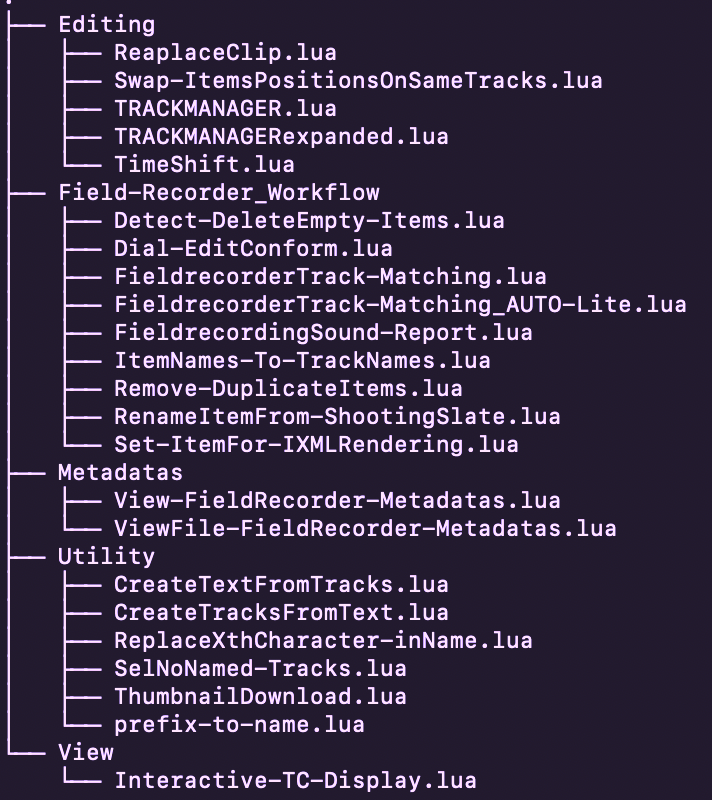
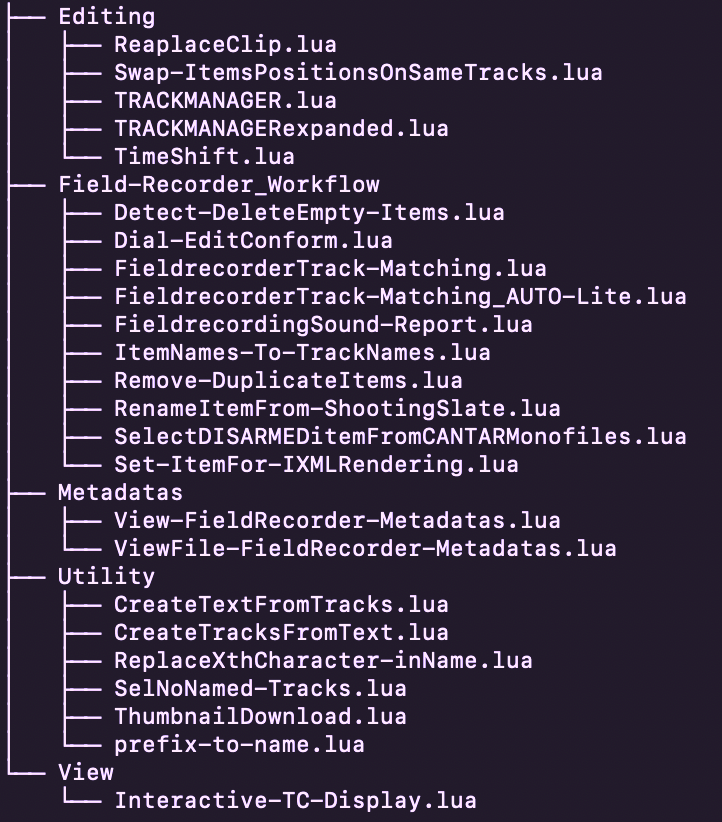
CANTAR DISARMED

Changed region(s): [[0.0, 0.0, 0.9579, 1.0]]

diff --git a/README.md b/README.md
@@ -243,6 +243,15 @@ Then Reaper can Re-render each Items and re-inject missing Metadata in tags **iX
   <img src="PICTURES/Set-ItemFor-IXMLRendering.png" alt="Overview of 'Set-ItemFor-IXMLRendering'" width="800" />
 </p> 
 
+## 5. **SelectDISARMEDitemFromCANTARMonofiles**
+(https://github.com/Geeksound/Reaper_Scripts-Mariow/blob/main/Field-Recorder_Workflow/SelectDISARMEDitemFromCANTARMonofiles.lua)   
+This script during conformation, when Polyfiles from CANTAR are exploded into MonoFiles on MonoTracks.
+During **SHOOTING** , some Tracks on the recorder are not 'ARMED' but recorded as empty to keep some correlation during **CONFORMATIO**
+One strategy could be detect these Items automatically and Delete them.
+
+<p align="center">
+  <img src="PICTURES/SelectDISARMEDitemFromCANTARMonofiles.png" alt="Overview of 'SelectDISARMEDitemFromCANTARMonofiles'" width="800" />
+</p> 
 
 
 -------------------------------------------------
